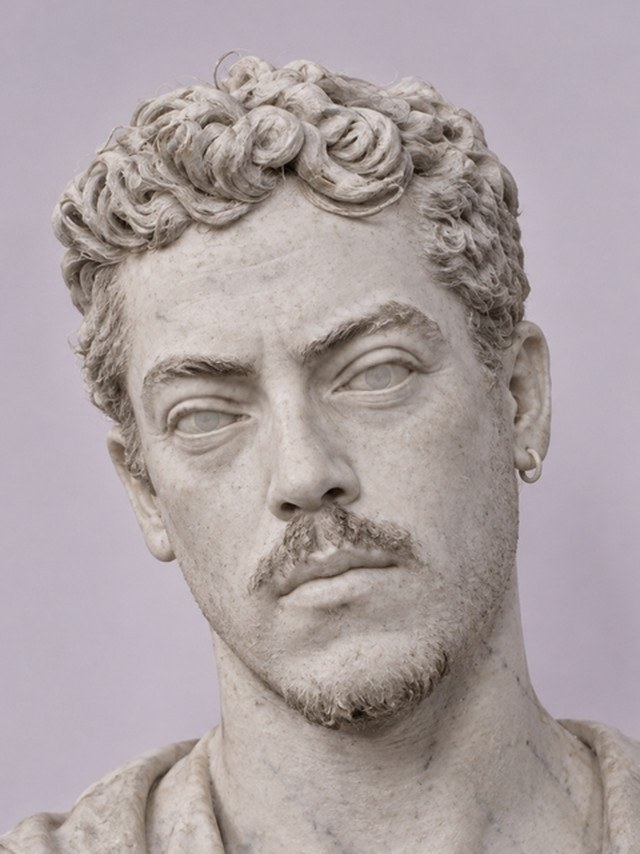
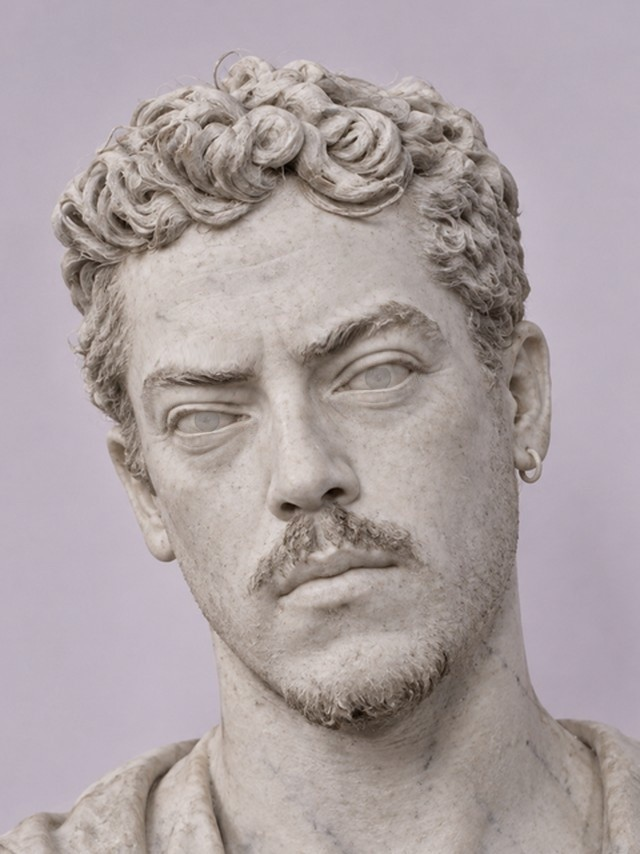
About us: mirada de la estatua de Felipe más suave, como en su foto (ceja y párpados)

Changed region(s): [[0.2188, 0.3958, 0.4062, 0.4871], [0.4688, 0.3653, 0.625, 0.4262]]

diff --git a/de/about-us/index.html b/de/about-us/index.html
@@ -89,7 +89,7 @@
           <div class="fl-grid"><div class="fl-obra"><h4>The Heart Is Not a Bomb</h4><ul><li><span class="fl-cat">Official Selection</span> <span class="fl-fest">Cine y Derechos Humanos</span> <span class="fl-pais">Spain · 2025</span></li><li><span class="fl-cat">Official Selection</span> <span class="fl-fest">InShadow</span> <span class="fl-pais">Portugal · 2025</span></li><li><span class="fl-cat">Official Selection</span> <span class="fl-fest">Mexico City Videodance</span> <span class="fl-pais">Mexico · 2025</span></li></ul></div><div class="fl-obra"><h4>To Dwell</h4><ul><li class="premio"><span class="fl-cat">Best Choreography</span> <span class="fl-fest">Movimiento Audiovisual</span> <span class="fl-pais">Mexico · 2023</span></li><li><span class="fl-cat">Official Selection</span> <span class="fl-fest">Max Sir</span> <span class="fl-pais">Ukraine · 2024</span></li><li><span class="fl-cat">Official Selection</span> <span class="fl-fest">Bridges</span> <span class="fl-pais">United States · 2023</span></li><li><span class="fl-cat">Official Selection</span> <span class="fl-fest">Cuerpo Digital</span> <span class="fl-pais">Bolivia · 2023</span></li></ul></div><div class="fl-obra"><h4>Ahora Somos Nosotres</h4><ul><li class="premio"><span class="fl-cat">Best Sound &amp; Music</span> <span class="fl-fest">Style, Experimental, Fashion Film Festival</span> <span class="fl-pais">2023</span></li><li><span class="fl-cat">Official Selection</span> <span class="fl-fest">Style, Experimental, Fashion Film Festival</span> <span class="fl-pais">2023</span></li></ul></div><div class="fl-obra"><h4>Ecdysis: Actions for Shedding Skin. Liquefy</h4><ul><li><span class="fl-cat">Official Selection</span> <span class="fl-fest">Cine Bio-Bío</span> <span class="fl-pais">Chile</span></li><li><span class="fl-cat">Official Selection</span> <span class="fl-fest">Santiago a Mil</span> <span class="fl-pais">Chile</span></li></ul></div><div class="fl-obra"><h4>Escape</h4><ul><li class="premio"><span class="fl-cat">Honorable Mention</span> <span class="fl-fest">Mexico City Videodance</span> <span class="fl-pais">Mexico · 2021</span></li><li class="premio"><span class="fl-cat">Finalist</span> <span class="fl-fest">Dance Camera West</span> <span class="fl-pais">United States</span></li><li><span class="fl-cat">Official Selection</span> <span class="fl-fest">Bucharest Dance Film</span> <span class="fl-pais">Romania · 2020</span></li><li><span class="fl-cat">Official Selection</span> <span class="fl-fest">InShadow</span> <span class="fl-pais">Portugal · 2020</span></li><li><span class="fl-cat">Official Selection</span> <span class="fl-fest">LA Dance Shorts</span> <span class="fl-pais">United States · 2020</span></li><li><span class="fl-cat">Official Selection</span> <span class="fl-fest">Screendance Miami</span> <span class="fl-pais">United States · 2021</span></li><li><span class="fl-cat">Official Selection</span> <span class="fl-fest">CAPITOL Dance &amp; Cinema</span> <span class="fl-pais">United States · 2020</span></li><li><span class="fl-cat">Official Selection</span> <span class="fl-fest">Cascadia Dance &amp; Cinema</span> <span class="fl-pais">Canada · 2020</span></li><li><span class="fl-cat">Official Selection</span> <span class="fl-fest">Artes Mediales</span> <span class="fl-pais">Chile</span></li><li><span class="fl-cat">Official Selection</span> <span class="fl-fest">Fintdaz</span> <span class="fl-pais">Chile · 2020</span></li></ul></div><div class="fl-obra"><h4>misoginia Pandora</h4><ul><li class="premio"><span class="fl-cat">Best Film</span> <span class="fl-fest">Imagitari DJK Fest</span> <span class="fl-pais">Indonesia · 2018</span></li><li><span class="fl-cat">Official Selection</span> <span class="fl-fest">Iowa ScreenDance</span> <span class="fl-pais">United States</span></li><li><span class="fl-cat">Official Selection</span> <span class="fl-fest">Festival ABC</span> <span class="fl-pais">Spain</span></li><li><span class="fl-cat">Official Selection</span> <span class="fl-fest">Dança em Foco</span> <span class="fl-pais">Brazil</span></li><li><span class="fl-cat">Official Selection</span> <span class="fl-fest">Video Danza Chile</span> <span class="fl-pais">Chile · 2017</span></li><li><span class="fl-cat">Official Selection</span> <span class="fl-fest">Cine Ituzaingó</span> <span class="fl-pais">Argentina</span></li><li><span class="fl-cat">Official Selection</span> <span class="fl-fest">Flexiff</span> <span class="fl-pais">Australia · 2017</span></li><li><span class="fl-cat">Official Selection</span> <span class="fl-fest">FIDIC Cocoa</span> <span class="fl-pais">Argentina</span></li><li><span class="fl-cat">Official Selection</span> <span class="fl-fest">Intermediaciones</span> <span class="fl-pais">Colombia</span></li><li><span class="fl-cat">Official Selection</span> <span class="fl-fest">São Carlos Videodance</span> <span class="fl-pais">Brazil</span></li><li><span class="fl-cat">Official Selection</span> <span class="fl-fest">La mida no importa</span> <span class="fl-pais">Spain</span></li><li><span class="fl-cat">Official Selection</span> <span class="fl-fest">Bugarte</span> <span class="fl-pais">Colombia · 2017</span></li><li><span class="fl-cat">Official Selection</span> <span class="fl-fest">MiTS</span> <span class="fl-pais">Spain</span></li><li><span class="fl-cat">Official Selection</span> <span class="fl-fest">Sardinian Festival</span> <span class="fl-pais">Italy</span></li><li><span class="fl-cat">Official Selection</span> <span class="fl-fest">CCPC</span> <span class="fl-pais">Costa Rica</span></li><li><span class="fl-cat">Official Selection</span> <span class="fl-fest">Bekraf Fest</span> <span class="fl-pais">Indonesia</span></li><li><span class="fl-cat">Official Selection</span> <span class="fl-fest">FICESMI</span> <span class="fl-pais">Argentina</span></li></ul></div><div class="fl-obra"><h4>misoginia EVA</h4><ul><li><span class="fl-cat">Official Selection</span> <span class="fl-fest">Danzalborde</span> <span class="fl-pais">Chile · 2016</span></li><li><span class="fl-cat">Official Selection</span> <span class="fl-fest">InVe</span> <span class="fl-pais">Chile · 2016</span></li><li><span class="fl-cat">Official Selection</span> <span class="fl-fest">Athens Video Dance Project</span> <span class="fl-pais">Griechenland · 2016</span></li><li><span class="fl-cat">Official Selection</span> <span class="fl-fest">El Cruce</span> <span class="fl-pais">Argentina · 2016</span></li><li><span class="fl-cat">Official Selection</span> <span class="fl-fest">LUMEN</span> <span class="fl-pais">Chile · 2016</span></li></ul></div><div class="fl-obra"><h4>SUBE / Al aire el río</h4><ul><li class="premio"><span class="fl-cat">Gewinner</span> <span class="fl-fest">Animal &amp; Environmental</span> <span class="fl-pais">Mexico · 2021</span></li><li><span class="fl-cat">Official Selection</span> <span class="fl-fest">AQP Festival</span> <span class="fl-pais">Peru · 2021</span></li><li><span class="fl-cat">Official Selection</span> <span class="fl-fest">Cinelebu</span> <span class="fl-pais">Chile · 2022</span></li></ul></div><div class="fl-obra"><h4>SUBE / Ramato</h4><ul><li><span class="fl-cat">Official Selection</span> <span class="fl-fest">BioBioCine</span> <span class="fl-pais">Chile · 2019</span></li></ul></div></div>
         </details>
         <div class="director">
-          <span class="estatua" tabindex="0"><img class="director-foto" src="../../img/director.jpg?v=2" alt="Felipe Díaz Galarce" width="640" height="854" loading="lazy"><img class="director-foto marmol" src="../../img/director-estatua.jpg?v=6" alt="" aria-hidden="true" width="640" height="854" loading="lazy"></span>
+          <span class="estatua" tabindex="0"><img class="director-foto" src="../../img/director.jpg?v=2" alt="Felipe Díaz Galarce" width="640" height="854" loading="lazy"><img class="director-foto marmol" src="../../img/director-estatua.jpg?v=7" alt="" aria-hidden="true" width="640" height="854" loading="lazy"></span>
           <div>
             <p class="firma"><strong>Felipe Díaz Galarce</strong> — Regisseur</p>
         <p>Vor dem Film zwölf Jahre Theater als Schauspieler, Autor und Regisseur sowie Produzent der Theaterkompanie Turba (2009–2019). Er tanzt zeitgenössischen Tanz und Contact Improvisation mit der Kompanie <strong>mundomoebio</strong>, mit der er in Argentinien, Peru, Chile, Brasilien, Kanada und China aufgetreten ist.</p>

diff --git a/es/about-us/index.html b/es/about-us/index.html
@@ -89,7 +89,7 @@
           <div class="fl-grid"><div class="fl-obra"><h4>El corazón no es una bomba</h4><ul><li><span class="fl-cat">Official Selection</span> <span class="fl-fest">Cine y Derechos Humanos</span> <span class="fl-pais">Spain · 2025</span></li><li><span class="fl-cat">Official Selection</span> <span class="fl-fest">InShadow</span> <span class="fl-pais">Portugal · 2025</span></li><li><span class="fl-cat">Official Selection</span> <span class="fl-fest">Mexico City Videodance</span> <span class="fl-pais">Mexico · 2025</span></li></ul></div><div class="fl-obra"><h4>Morar</h4><ul><li class="premio"><span class="fl-cat">Best Choreography</span> <span class="fl-fest">Movimiento Audiovisual</span> <span class="fl-pais">Mexico · 2023</span></li><li><span class="fl-cat">Official Selection</span> <span class="fl-fest">Max Sir</span> <span class="fl-pais">Ukraine · 2024</span></li><li><span class="fl-cat">Official Selection</span> <span class="fl-fest">Bridges</span> <span class="fl-pais">United States · 2023</span></li><li><span class="fl-cat">Official Selection</span> <span class="fl-fest">Cuerpo Digital</span> <span class="fl-pais">Bolivia · 2023</span></li></ul></div><div class="fl-obra"><h4>Ahora Somos Nosotres</h4><ul><li class="premio"><span class="fl-cat">Best Sound &amp; Music</span> <span class="fl-fest">Style, Experimental, Fashion Film Festival</span> <span class="fl-pais">2023</span></li><li><span class="fl-cat">Official Selection</span> <span class="fl-fest">Style, Experimental, Fashion Film Festival</span> <span class="fl-pais">2023</span></li></ul></div><div class="fl-obra"><h4>Ecdisis acciones para mudar de piel. Licuar</h4><ul><li><span class="fl-cat">Official Selection</span> <span class="fl-fest">Cine Bio-Bío</span> <span class="fl-pais">Chile</span></li><li><span class="fl-cat">Official Selection</span> <span class="fl-fest">Santiago a Mil</span> <span class="fl-pais">Chile</span></li></ul></div><div class="fl-obra"><h4>Escape</h4><ul><li class="premio"><span class="fl-cat">Honorable Mention</span> <span class="fl-fest">Mexico City Videodance</span> <span class="fl-pais">Mexico · 2021</span></li><li class="premio"><span class="fl-cat">Finalist</span> <span class="fl-fest">Dance Camera West</span> <span class="fl-pais">United States</span></li><li><span class="fl-cat">Official Selection</span> <span class="fl-fest">Bucharest Dance Film</span> <span class="fl-pais">Romania · 2020</span></li><li><span class="fl-cat">Official Selection</span> <span class="fl-fest">InShadow</span> <span class="fl-pais">Portugal · 2020</span></li><li><span class="fl-cat">Official Selection</span> <span class="fl-fest">LA Dance Shorts</span> <span class="fl-pais">United States · 2020</span></li><li><span class="fl-cat">Official Selection</span> <span class="fl-fest">Screendance Miami</span> <span class="fl-pais">United States · 2021</span></li><li><span class="fl-cat">Official Selection</span> <span class="fl-fest">CAPITOL Dance &amp; Cinema</span> <span class="fl-pais">United States · 2020</span></li><li><span class="fl-cat">Official Selection</span> <span class="fl-fest">Cascadia Dance &amp; Cinema</span> <span class="fl-pais">Canada · 2020</span></li><li><span class="fl-cat">Official Selection</span> <span class="fl-fest">Artes Mediales</span> <span class="fl-pais">Chile</span></li><li><span class="fl-cat">Official Selection</span> <span class="fl-fest">Fintdaz</span> <span class="fl-pais">Chile · 2020</span></li></ul></div><div class="fl-obra"><h4>misoginia Pandora</h4><ul><li class="premio"><span class="fl-cat">Best Film</span> <span class="fl-fest">Imagitari DJK Fest</span> <span class="fl-pais">Indonesia · 2018</span></li><li><span class="fl-cat">Official Selection</span> <span class="fl-fest">Iowa ScreenDance</span> <span class="fl-pais">United States</span></li><li><span class="fl-cat">Official Selection</span> <span class="fl-fest">Festival ABC</span> <span class="fl-pais">Spain</span></li><li><span class="fl-cat">Official Selection</span> <span class="fl-fest">Dança em Foco</span> <span class="fl-pais">Brazil</span></li><li><span class="fl-cat">Official Selection</span> <span class="fl-fest">Video Danza Chile</span> <span class="fl-pais">Chile · 2017</span></li><li><span class="fl-cat">Official Selection</span> <span class="fl-fest">Cine Ituzaingó</span> <span class="fl-pais">Argentina</span></li><li><span class="fl-cat">Official Selection</span> <span class="fl-fest">Flexiff</span> <span class="fl-pais">Australia · 2017</span></li><li><span class="fl-cat">Official Selection</span> <span class="fl-fest">FIDIC Cocoa</span> <span class="fl-pais">Argentina</span></li><li><span class="fl-cat">Official Selection</span> <span class="fl-fest">Intermediaciones</span> <span class="fl-pais">Colombia</span></li><li><span class="fl-cat">Official Selection</span> <span class="fl-fest">São Carlos Videodance</span> <span class="fl-pais">Brazil</span></li><li><span class="fl-cat">Official Selection</span> <span class="fl-fest">La mida no importa</span> <span class="fl-pais">Spain</span></li><li><span class="fl-cat">Official Selection</span> <span class="fl-fest">Bugarte</span> <span class="fl-pais">Colombia · 2017</span></li><li><span class="fl-cat">Official Selection</span> <span class="fl-fest">MiTS</span> <span class="fl-pais">Spain</span></li><li><span class="fl-cat">Official Selection</span> <span class="fl-fest">Sardinian Festival</span> <span class="fl-pais">Italy</span></li><li><span class="fl-cat">Official Selection</span> <span class="fl-fest">CCPC</span> <span class="fl-pais">Costa Rica</span></li><li><span class="fl-cat">Official Selection</span> <span class="fl-fest">Bekraf Fest</span> <span class="fl-pais">Indonesia</span></li><li><span class="fl-cat">Official Selection</span> <span class="fl-fest">FICESMI</span> <span class="fl-pais">Argentina</span></li></ul></div><div class="fl-obra"><h4>misoginia EVA</h4><ul><li><span class="fl-cat">Official Selection</span> <span class="fl-fest">Danzalborde</span> <span class="fl-pais">Chile · 2016</span></li><li><span class="fl-cat">Official Selection</span> <span class="fl-fest">InVe</span> <span class="fl-pais">Chile · 2016</span></li><li><span class="fl-cat">Official Selection</span> <span class="fl-fest">Athens Video Dance Project</span> <span class="fl-pais">Grecia · 2016</span></li><li><span class="fl-cat">Official Selection</span> <span class="fl-fest">El Cruce</span> <span class="fl-pais">Argentina · 2016</span></li><li><span class="fl-cat">Official Selection</span> <span class="fl-fest">LUMEN</span> <span class="fl-pais">Chile · 2016</span></li></ul></div><div class="fl-obra"><h4>SUBE / Al aire el río</h4><ul><li class="premio"><span class="fl-cat">Ganador</span> <span class="fl-fest">Animal &amp; Environmental</span> <span class="fl-pais">Mexico · 2021</span></li><li><span class="fl-cat">Official Selection</span> <span class="fl-fest">AQP Festival</span> <span class="fl-pais">Peru · 2021</span></li><li><span class="fl-cat">Official Selection</span> <span class="fl-fest">Cinelebu</span> <span class="fl-pais">Chile · 2022</span></li></ul></div><div class="fl-obra"><h4>SUBE / Ramato</h4><ul><li><span class="fl-cat">Official Selection</span> <span class="fl-fest">BioBioCine</span> <span class="fl-pais">Chile · 2019</span></li></ul></div></div>
         </details>
         <div class="director">
-          <span class="estatua" tabindex="0"><img class="director-foto" src="../../img/director.jpg?v=2" alt="Felipe Díaz Galarce" width="640" height="854" loading="lazy"><img class="director-foto marmol" src="../../img/director-estatua.jpg?v=6" alt="" aria-hidden="true" width="640" height="854" loading="lazy"></span>
+          <span class="estatua" tabindex="0"><img class="director-foto" src="../../img/director.jpg?v=2" alt="Felipe Díaz Galarce" width="640" height="854" loading="lazy"><img class="director-foto marmol" src="../../img/director-estatua.jpg?v=7" alt="" aria-hidden="true" width="640" height="854" loading="lazy"></span>
           <div>
             <p class="firma"><strong>Felipe Díaz Galarce</strong> — Director</p>
         <p>Antes del cine, doce años de teatro como actor, dramaturgo y director, y productor de la compañía Turba entre 2009 y 2019. Practica danza contemporánea y contacto improvisación con la compañía <strong>mundomoebio</strong>, con la que se ha presentado en Argentina, Perú, Chile, Brasil, Canadá y China.</p>

diff --git a/about-us/index.html b/about-us/index.html
@@ -88,7 +88,7 @@
           <div class="fl-grid"><div class="fl-obra"><h4>The Heart Is Not a Bomb</h4><ul><li><span class="fl-cat">Official Selection</span> <span class="fl-fest">Cine y Derechos Humanos</span> <span class="fl-pais">Spain · 2025</span></li><li><span class="fl-cat">Official Selection</span> <span class="fl-fest">InShadow</span> <span class="fl-pais">Portugal · 2025</span></li><li><span class="fl-cat">Official Selection</span> <span class="fl-fest">Mexico City Videodance</span> <span class="fl-pais">Mexico · 2025</span></li></ul></div><div class="fl-obra"><h4>To Dwell</h4><ul><li class="premio"><span class="fl-cat">Best Choreography</span> <span class="fl-fest">Movimiento Audiovisual</span> <span class="fl-pais">Mexico · 2023</span></li><li><span class="fl-cat">Official Selection</span> <span class="fl-fest">Max Sir</span> <span class="fl-pais">Ukraine · 2024</span></li><li><span class="fl-cat">Official Selection</span> <span class="fl-fest">Bridges</span> <span class="fl-pais">United States · 2023</span></li><li><span class="fl-cat">Official Selection</span> <span class="fl-fest">Cuerpo Digital</span> <span class="fl-pais">Bolivia · 2023</span></li></ul></div><div class="fl-obra"><h4>Ahora Somos Nosotres</h4><ul><li class="premio"><span class="fl-cat">Best Sound &amp; Music</span> <span class="fl-fest">Style, Experimental, Fashion Film Festival</span> <span class="fl-pais">2023</span></li><li><span class="fl-cat">Official Selection</span> <span class="fl-fest">Style, Experimental, Fashion Film Festival</span> <span class="fl-pais">2023</span></li></ul></div><div class="fl-obra"><h4>Ecdysis: Actions for Shedding Skin. Liquefy</h4><ul><li><span class="fl-cat">Official Selection</span> <span class="fl-fest">Cine Bio-Bío</span> <span class="fl-pais">Chile</span></li><li><span class="fl-cat">Official Selection</span> <span class="fl-fest">Santiago a Mil</span> <span class="fl-pais">Chile</span></li></ul></div><div class="fl-obra"><h4>Escape</h4><ul><li class="premio"><span class="fl-cat">Honorable Mention</span> <span class="fl-fest">Mexico City Videodance</span> <span class="fl-pais">Mexico · 2021</span></li><li class="premio"><span class="fl-cat">Finalist</span> <span class="fl-fest">Dance Camera West</span> <span class="fl-pais">United States</span></li><li><span class="fl-cat">Official Selection</span> <span class="fl-fest">Bucharest Dance Film</span> <span class="fl-pais">Romania · 2020</span></li><li><span class="fl-cat">Official Selection</span> <span class="fl-fest">InShadow</span> <span class="fl-pais">Portugal · 2020</span></li><li><span class="fl-cat">Official Selection</span> <span class="fl-fest">LA Dance Shorts</span> <span class="fl-pais">United States · 2020</span></li><li><span class="fl-cat">Official Selection</span> <span class="fl-fest">Screendance Miami</span> <span class="fl-pais">United States · 2021</span></li><li><span class="fl-cat">Official Selection</span> <span class="fl-fest">CAPITOL Dance &amp; Cinema</span> <span class="fl-pais">United States · 2020</span></li><li><span class="fl-cat">Official Selection</span> <span class="fl-fest">Cascadia Dance &amp; Cinema</span> <span class="fl-pais">Canada · 2020</span></li><li><span class="fl-cat">Official Selection</span> <span class="fl-fest">Artes Mediales</span> <span class="fl-pais">Chile</span></li><li><span class="fl-cat">Official Selection</span> <span class="fl-fest">Fintdaz</span> <span class="fl-pais">Chile · 2020</span></li></ul></div><div class="fl-obra"><h4>misoginia Pandora</h4><ul><li class="premio"><span class="fl-cat">Best Film</span> <span class="fl-fest">Imagitari DJK Fest</span> <span class="fl-pais">Indonesia · 2018</span></li><li><span class="fl-cat">Official Selection</span> <span class="fl-fest">Iowa ScreenDance</span> <span class="fl-pais">United States</span></li><li><span class="fl-cat">Official Selection</span> <span class="fl-fest">Festival ABC</span> <span class="fl-pais">Spain</span></li><li><span class="fl-cat">Official Selection</span> <span class="fl-fest">Dança em Foco</span> <span class="fl-pais">Brazil</span></li><li><span class="fl-cat">Official Selection</span> <span class="fl-fest">Video Danza Chile</span> <span class="fl-pais">Chile · 2017</span></li><li><span class="fl-cat">Official Selection</span> <span class="fl-fest">Cine Ituzaingó</span> <span class="fl-pais">Argentina</span></li><li><span class="fl-cat">Official Selection</span> <span class="fl-fest">Flexiff</span> <span class="fl-pais">Australia · 2017</span></li><li><span class="fl-cat">Official Selection</span> <span class="fl-fest">FIDIC Cocoa</span> <span class="fl-pais">Argentina</span></li><li><span class="fl-cat">Official Selection</span> <span class="fl-fest">Intermediaciones</span> <span class="fl-pais">Colombia</span></li><li><span class="fl-cat">Official Selection</span> <span class="fl-fest">São Carlos Videodance</span> <span class="fl-pais">Brazil</span></li><li><span class="fl-cat">Official Selection</span> <span class="fl-fest">La mida no importa</span> <span class="fl-pais">Spain</span></li><li><span class="fl-cat">Official Selection</span> <span class="fl-fest">Bugarte</span> <span class="fl-pais">Colombia · 2017</span></li><li><span class="fl-cat">Official Selection</span> <span class="fl-fest">MiTS</span> <span class="fl-pais">Spain</span></li><li><span class="fl-cat">Official Selection</span> <span class="fl-fest">Sardinian Festival</span> <span class="fl-pais">Italy</span></li><li><span class="fl-cat">Official Selection</span> <span class="fl-fest">CCPC</span> <span class="fl-pais">Costa Rica</span></li><li><span class="fl-cat">Official Selection</span> <span class="fl-fest">Bekraf Fest</span> <span class="fl-pais">Indonesia</span></li><li><span class="fl-cat">Official Selection</span> <span class="fl-fest">FICESMI</span> <span class="fl-pais">Argentina</span></li></ul></div><div class="fl-obra"><h4>misoginia EVA</h4><ul><li><span class="fl-cat">Official Selection</span> <span class="fl-fest">Danzalborde</span> <span class="fl-pais">Chile · 2016</span></li><li><span class="fl-cat">Official Selection</span> <span class="fl-fest">InVe</span> <span class="fl-pais">Chile · 2016</span></li><li><span class="fl-cat">Official Selection</span> <span class="fl-fest">Athens Video Dance Project</span> <span class="fl-pais">Greece · 2016</span></li><li><span class="fl-cat">Official Selection</span> <span class="fl-fest">El Cruce</span> <span class="fl-pais">Argentina · 2016</span></li><li><span class="fl-cat">Official Selection</span> <span class="fl-fest">LUMEN</span> <span class="fl-pais">Chile · 2016</span></li></ul></div><div class="fl-obra"><h4>SUBE / Al aire el río</h4><ul><li class="premio"><span class="fl-cat">Winner</span> <span class="fl-fest">Animal &amp; Environmental</span> <span class="fl-pais">Mexico · 2021</span></li><li><span class="fl-cat">Official Selection</span> <span class="fl-fest">AQP Festival</span> <span class="fl-pais">Peru · 2021</span></li><li><span class="fl-cat">Official Selection</span> <span class="fl-fest">Cinelebu</span> <span class="fl-pais">Chile · 2022</span></li></ul></div><div class="fl-obra"><h4>SUBE / Ramato</h4><ul><li><span class="fl-cat">Official Selection</span> <span class="fl-fest">BioBioCine</span> <span class="fl-pais">Chile · 2019</span></li></ul></div></div>
         </details>
         <div class="director">
-          <span class="estatua" tabindex="0"><img class="director-foto" src="../img/director.jpg?v=2" alt="Felipe Díaz Galarce" width="640" height="854" loading="lazy"><img class="director-foto marmol" src="../img/director-estatua.jpg?v=6" alt="" aria-hidden="true" width="640" height="854" loading="lazy"></span>
+          <span class="estatua" tabindex="0"><img class="director-foto" src="../img/director.jpg?v=2" alt="Felipe Díaz Galarce" width="640" height="854" loading="lazy"><img class="director-foto marmol" src="../img/director-estatua.jpg?v=7" alt="" aria-hidden="true" width="640" height="854" loading="lazy"></span>
           <div>
             <p class="firma"><strong>Felipe Díaz Galarce</strong> — Director</p>
         <p>Before cinema, twelve years in theatre as actor, playwright and director, and producer of the stage company Turba between 2009 and 2019. He dances contemporary and contact improvisation with the company <strong>mundomoebio</strong>, performing in Argentina, Peru, Chile, Brazil, Canada and China.</p>
